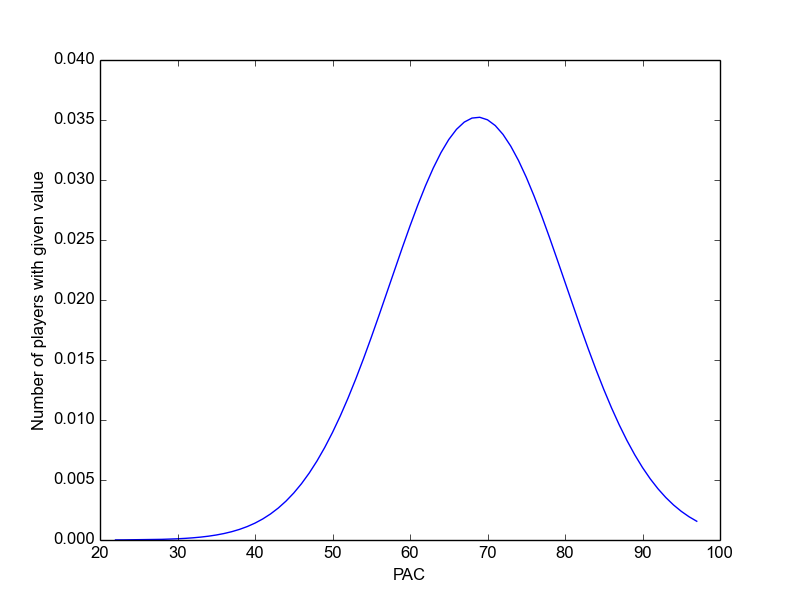
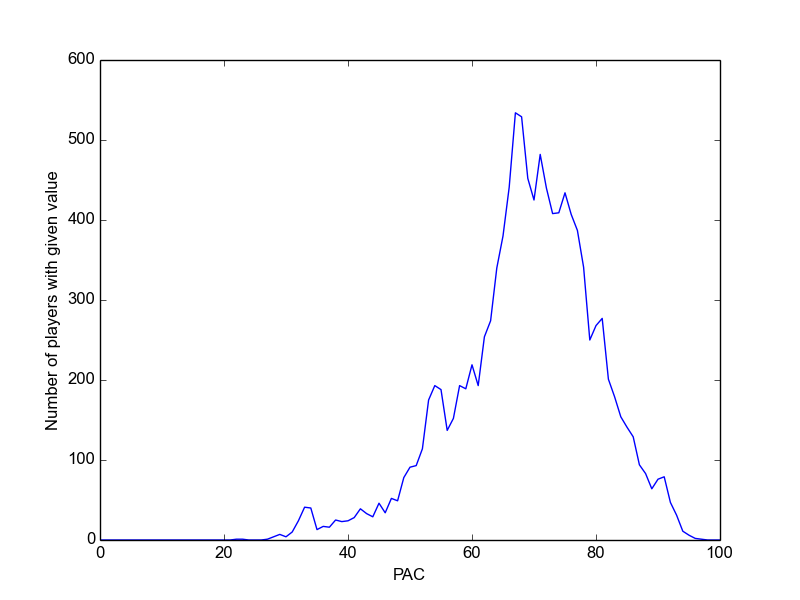
Plots for all attributes of FIFA 15 added. Some very interesting plots indeed...

diff --git a/src/main.py b/src/main.py
@@ -33,9 +33,28 @@ def getAttributePlot(attribute, fifaVersion):
     plottingFunctions.plotDistribution(filteredResults, attribute, fifaVersion)
     databaseQueries.closeDatabaseConnection(connection)
 
+def plotCurves(fifaVersion):
+    finalBaseAttribute = "HEA"
+    if(fifaVersion == 15):
+        finalBaseAttribute = "PHY"
+    playerStatsFields = ["PAC","SHO","PAS","DRI",
+                        "DEF",finalBaseAttribute,"Ball_Control", 
+                        "Crossing", "Curve", "Dribbling", "Finishing", 
+                        "Free_Kick_Accuracy","Heading_Accuracy", "Long_Passing", 
+                        "Long_Shots", "Marking", "Penalties", "Short_Passing",
+                        "Shot_Power", "Sliding_Tackle", "Standing_Tackle", "Volleys", 
+                        "Acceleration", "Agility", "Balance","Jumping", "Reactions", 
+                        "Sprint_Speed", "Stamina","Strength", "Aggression", "Positioning", 
+                        "Interceptions","Vision", "Player_Rating"]
+
+    for attribute in playerStatsFields:
+        getAttributePlot(attribute, fifaVersion)
+        
+
 def main():
 #     simpleRun()
-    getAttributePlot("PAC", 15)
+    plotCurves(15)
+
     return
 
 if __name__ == '__main__':

diff --git a/src/plottingFunctions.py b/src/plottingFunctions.py
@@ -2,7 +2,6 @@
 In this script, I'll write all the plotting function that I plan on using. Pyplot will be used.
 """
 import numpy as np
-import scipy.stats as stats
 import matplotlib.pyplot as plt
 import utilityFunctions
 
@@ -14,18 +13,26 @@ def plotDistribution(filteredResults, attribute, fifaVersion):
     t = utilityFunctions.getMaximumAndMinimumElements(filteredResults)
     maximumElements = t[0]
     minimumElements = t[1]
+    
     data = filteredResults.values()
     data.sort()
+    
     mean = np.mean(data)
     std = np.std(data)
     maximum = max(data)
     minimum = min(data)
+    
     print "Mean : " + str(mean)
     print "Standard Deviation : " + str(std)
     print "Max : " + str(maximum) + " by " + str(maximumElements)
     print "Min : " + str(minimum) + " by " + str(minimumElements)
-    pdf = stats.norm.pdf(data, mean, std)
+    
+    plt.figure()
+    
     plt.xlabel(attribute)
     plt.ylabel("Number of players with given value")
-    plt.plot(data, pdf)
+
+    binnedData = utilityFunctions.binUpData(data)
+    plt.plot(binnedData[0],binnedData[1])
+
     plt.savefig("plots/" + str(fifaVersion) + "/" + attribute + ".png")

diff --git a/src/utilityFunctions.py b/src/utilityFunctions.py
@@ -1,6 +1,7 @@
 """
 This function will contain all functions that will be frequently used.
 """
+import numpy
 
 def getPlayerAttributeMapping(results, attribute):
     filteredResults = {}
@@ -26,3 +27,13 @@ def getMaximumAndMinimumElements(filteredResults):
         elif(filteredResults[key]==minValue):
             minElements.append(key.split("--")[1].strip())
     return (maxElements,minElements)
+
+"""
+Given a list of data, it gets binned up.
+"""
+def binUpData(data):
+    bins = range(0,101)
+    binValues = [0] * 101
+    for value in data:
+        binValues[value] += 1
+    return (bins,binValues)
